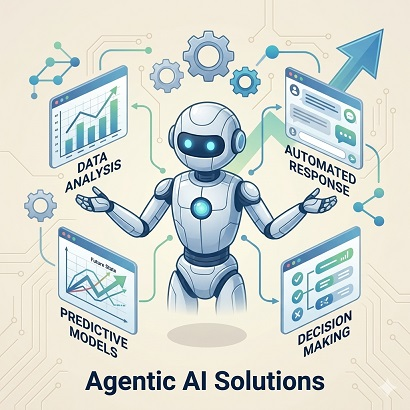
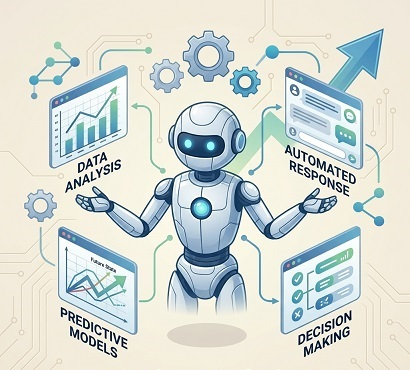
image box fixed

diff --git a/src/index.html b/src/index.html
@@ -85,7 +85,6 @@
     </header>
 
     <!-- What We Do -->
-    <!-- What We Do -->
     <section id="services" class="py-20 container mx-auto px-6">
         <h2 class="text-4xl font-bold text-center mb-16">What We Do</h2>
 
@@ -94,7 +93,7 @@
 
             <!-- Card 1 -->
             <div class="bg-white p-8 rounded-3xl shadow-sm border border-slate-100 hover:border-brand transition">
-                <img src="images/software.jpg" alt="Service 1" class="w-full h-48 object-cover rounded-2xl mb-6">
+                <img src="images/software.jpg" alt="Service 1" class="w-full h-auto rounded-2xl mb-6">
                 <h3 class="text-2xl font-bold mb-3">Custom Software</h3>
                 <p class="text-slate-600">Robust engineering built for scale, security, and long-term maintainability.
                 </p>
@@ -102,21 +101,21 @@
 
             <!-- Card 2 -->
             <div class="bg-white p-8 rounded-3xl shadow-sm border border-slate-100 hover:border-brand transition">
-                <img src="images/ux.jpg" alt="Service 2" class="w-full h-48 object-cover rounded-2xl mb-6">
+                <img src="images/ux.jpg" alt="Service 2" class="w-full h-auto rounded-2xl mb-6">
                 <h3 class="text-2xl font-bold mb-3">UI/UX Design</h3>
                 <p class="text-slate-600">Intuitive interfaces that prioritize user experience and conversion.</p>
             </div>
 
             <!-- Card 3 -->
             <div class="bg-white p-8 rounded-3xl shadow-sm border border-slate-100 hover:border-brand transition">
-                <img src="images/ai.jpg" alt="Service 3" class="w-full h-48 object-cover rounded-2xl mb-6">
+                <img src="images/ai.jpg" alt="Service 3" class="w-full h-auto rounded-2xl mb-6">
                 <h3 class="text-2xl font-bold mb-3">AI Solutions</h3>
                 <p class="text-slate-600">Leveraging agentic AI to automate processes and unlock new value.</p>
             </div>
 
             <!-- Card 4 -->
             <div class="bg-white p-8 rounded-3xl shadow-sm border border-slate-100 hover:border-brand transition">
-                <img src="images/cloud.jpg" alt="Service 4" class="w-full h-48 object-cover rounded-2xl mb-6">
+                <img src="images/cloud.jpg" alt="Service 4" class="w-full h-auto rounded-2xl mb-6">
                 <h3 class="text-2xl font-bold mb-3">Cloud Consulting</h3>
                 <p class="text-slate-600">Scalable cloud infrastructure ensuring your business never misses a beat.</p>
             </div>
@@ -124,34 +123,6 @@
         </div>
     </section>
 
-    <!-- Our Process: Uses brand-DEFAULT -->
-    <!-- <section id="process" class="py-20 bg-brand text-white">
-        <div class="container mx-auto px-6">
-            <h2 class="text-4xl font-bold text-center mb-16">Our Simple Process</h2>
-            <div class="grid md:grid-cols-4 gap-8">
-                <div class="text-center">
-                    <div class="text-4xl mb-4 text-blue-200 font-black">01</div>
-                    <h4 class="font-bold mb-2">Discovery</h4>
-                    <p class="text-blue-100 text-sm">We listen to your goals and define the scope.</p>
-                </div>
-                <div class="text-center">
-                    <div class="text-4xl mb-4 text-blue-200 font-black">02</div>
-                    <h4 class="font-bold mb-2">Design</h4>
-                    <p class="text-blue-100 text-sm">Creating intuitive, user-friendly blueprints.</p>
-                </div>
-                <div class="text-center">
-                    <div class="text-4xl mb-4 text-blue-200 font-black">03</div>
-                    <h4 class="font-bold mb-2">Build</h4>
-                    <p class="text-blue-100 text-sm">Agile development with clean, scalable code.</p>
-                </div>
-                <div class="text-center">
-                    <div class="text-4xl mb-4 text-blue-200 font-black">04</div>
-                    <h4 class="font-bold mb-2">Launch</h4>
-                    <p class="text-blue-100 text-sm">Deployment and ongoing support for success.</p>
-                </div>
-            </div>
-        </div>
-    </section> -->
     <!-- Our Process -->
     <section id="process" class="py-20 bg-brand text-white">
         <div class="container mx-auto px-6">
@@ -223,13 +194,25 @@
     <!-- Trust Section -->
     <section class="py-20 container mx-auto px-6 text-center">
         <h2 class="text-3xl font-bold mb-12">Trusted Partners & Happy Clients</h2>
-        <div class="flex flex-wrap justify-center gap-8 mb-16 opacity-50 grayscale">
-            <div class="text-xl font-bold text-brand">CLIENT LOGO</div>
-            <div class="text-xl font-bold text-brand">CLIENT LOGO</div>
-            <div class="text-xl font-bold text-brand">CLIENT LOGO</div>
+
+        <!-- Logo Grid -->
+        <div
+            class="flex flex-wrap justify-center items-center gap-12 mb-16 hover:grayscale-0 transition-all duration-500">
+            <!-- Logo 1 -->
+            <div class="w-32 h-16 flex items-center justify-center">
+                <img src="images/dazbog.jpg" alt="Client 1" class="max-h-full w-auto object-contain">
+            </div>
+            <!-- Logo 2 -->
+            <div class="w-32 h-16 flex items-center justify-center">
+                <img src="images/dazbog.jpg" alt="Client 2" class="max-h-full w-auto object-contain">
+            </div>
         </div>
+
         <blockquote class="bg-blue-50 p-10 rounded-3xl max-w-2xl mx-auto italic text-slate-700">
-            "ZYXAB completely transformed our workflow. Their team is professional, fast, and they truly care about our
+            "Lucid Tech completely transformed our workflow and helped us with our digital transformation. Their team is
+            professional,
+            fast, and they truly care about
+            our
             growth."
             <footer class="mt-4 font-bold text-brand">— A Satisfied Client</footer>
         </blockquote>
